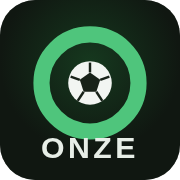
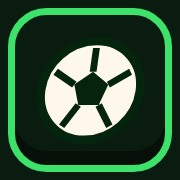
DA S1 · étape 3 (Lots 4-5) — gabarit des panneaux, badges à écussons, accueil cartouche Arcade, icône d'app, écran de fin, célébrations (but 3 intensités, fusion verte/or, bannière de palier)

diff --git a/partie.html b/partie.html
@@ -53,12 +53,18 @@
     }
     html.en-portrait #tourne-ecran { display: flex; }
     html.en-portrait #app { display: none; }
-    #tourne-ecran .rotor { font-size: 3rem; animation: tourne-doux 2.4s ease-in-out infinite; }
+    #tourne-ecran .rotor { animation: tourne-doux 2.4s ease-in-out infinite; }
+    /* le téléphone-cartouche (satellite « Tourne ton téléphone », Lot 4) */
+    .telephone-cartouche {
+      width: 54px; height: 34px; border: 3px solid var(--gazon-electrique); border-radius: 8px;
+      box-shadow: 0 0 16px rgba(61, 226, 107, 0.4); transform: rotate(90deg);
+    }
     @keyframes tourne-doux {
       0%, 55%, 100% { transform: rotate(0deg); }
-      25%, 40% { transform: rotate(90deg); }
+      25%, 40% { transform: rotate(-90deg); }
     }
-    #tourne-ecran h2 { margin: 0; font-size: 1.25rem; color: var(--or-trophee); }
+    #tourne-ecran h2 { margin: 8px 0 0; font-family: var(--police-display); font-weight: 400;
+      font-size: 1.3rem; color: var(--craie); transform: var(--pente); }
     #tourne-ecran p { margin: 0; font-size: 0.85rem; color: var(--craie-sourde); max-width: 300px; line-height: 1.45; }
     #tourne-ecran .promo-pwa {
       margin-top: 10px; padding: 10px 14px; border: 1px solid var(--ligne); border-radius: 12px;
@@ -90,8 +96,8 @@
     .pastille-manche small { display: block; font-size: 0.5rem; color: var(--craie-sourde); }
     .pastille-manche.passee { opacity: 0.25; }
     .pastille-manche.courante {
-      background: var(--surface-1); border: 1px solid var(--gazon-electrique); opacity: 1;
-      box-shadow: 0 0 8px rgba(61, 226, 107, 0.5); font-size: 0.82rem;
+      background: var(--surface-2); border: 1.5px solid var(--or-trophee); opacity: 1;
+      box-shadow: 0 0 12px rgba(242, 193, 78, 0.6); font-size: 0.82rem;
     }
     .haut button {
       background: var(--surface-1); color: var(--craie-claire); border: 1px solid var(--ligne);
@@ -363,10 +369,32 @@
     }
     .galerie .carte-galerie.epingle { border-color: #9CC4EF; box-shadow: 0 0 8px rgba(156, 196, 239, 0.5); }
 
+    /* Le toast : une pilule discrète (vocabulaire d'interaction, Lot 4) */
     .message-flottant {
       position: fixed; bottom: 110px; left: 50%; transform: translateX(-50%);
-      color: var(--alerte-claire); font-size: 0.75rem; z-index: 90; background: #060D08DD;
-      border-radius: 8px; padding: 0 8px; pointer-events: none; text-align: center;
+      color: var(--craie-claire); font-size: 0.75rem; z-index: 90;
+      background: #060D08E8; border: 1px solid var(--ligne);
+      border-radius: var(--r-pilule); padding: 0 12px; pointer-events: none; text-align: center;
+    }
+    /* La bannière en balayage latéral (Lot 5) : couleur = sens —
+       vert fusion · or palier/légendaire. Le layout ne bouge pas. */
+    .banniere-balayage {
+      position: absolute; left: 0; right: 0; top: 64px; z-index: 95; pointer-events: none;
+      padding: 8px 18px; font-weight: 800; font-size: 0.85rem;
+      font-family: var(--police-display); letter-spacing: 0.5px;
+      background: linear-gradient(90deg, rgba(242, 193, 78, 0.20), rgba(242, 193, 78, 0));
+      border-left: 3px solid var(--or-trophee); color: var(--or-trophee);
+      animation: balayage 1.4s ease forwards;
+    }
+    .banniere-balayage.verte {
+      background: linear-gradient(90deg, rgba(61, 226, 107, 0.20), rgba(61, 226, 107, 0));
+      border-left-color: var(--gazon-electrique); color: var(--gazon-electrique);
+    }
+    @keyframes balayage {
+      0% { transform: translateX(-24px); opacity: 0; }
+      12% { transform: none; opacity: 1; }
+      80% { opacity: 1; }
+      100% { opacity: 0; }
     }
 
     /* ---- Volets et panneaux ---- */
@@ -375,11 +403,17 @@
       z-index: 60; display: flex; align-items: center; justify-content: center;
       padding: 14px; overflow-y: auto;
     }
+    /* Le GABARIT COMMUN des panneaux (Lot 4) : même matière, même
+       rayon, même ombre — seule la couleur de bord dit le contexte. */
     .volet .panneau {
-      background: #131b14; border: 1px solid var(--ligne-forte); border-radius: 14px;
+      background: linear-gradient(165deg, #152A19, #0A160D);
+      border: 2px solid var(--ligne-forte); border-radius: var(--r-panneau);
       width: 100%; max-width: 420px; max-height: 92vh; overflow-y: auto;
       padding: 14px; animation: apparait 0.25s ease; font-size: 0.8rem;
+      box-shadow: var(--ombre-panneau);
     }
+    .volet .panneau > strong:first-child { font-family: var(--police-display); font-weight: 400;
+      font-size: 0.95rem; display: inline-block; transform: var(--pente); }
     .volet .panneau .classement { border: none; padding: 0; margin: 0 0 8px; background: none; }
     .volet .fermer-volet {
       width: 100%; margin-top: 10px; background: var(--ligne); color: var(--craie-claire);
@@ -392,7 +426,7 @@
 <body>
   <!-- ===== Écran « tourne ton téléphone » (portrait uniquement) ===== -->
   <div id="tourne-ecran">
-    <div class="rotor">🔄</div>
+    <div class="rotor"><div class="telephone-cartouche"></div></div>
     <h2>Tourne ton téléphone</h2>
     <p>ONZE se joue en paysage — comme un vrai match.<br>
       Si rien ne bouge : désactive le <strong>verrou d'orientation</strong> d'iOS
@@ -1465,14 +1499,20 @@
         if (je.vivant) ONZE_JUICE.jouer("icone"); else ONZE_JUICE.jouer("defaite");
         const volet = document.createElement("div");
         volet.className = "volet";
-        volet.innerHTML = `<div class="panneau" style="text-align:center;max-width:480px">
-          <div style="font-size:1.35rem;font-weight:900;margin-bottom:2px">${je.vivant ? "🏆 CHAMPION !" : "💔 Éliminé"}</div>
-          <div style="color:var(--craie-sourde);font-size:0.78rem;margin-bottom:8px">${place}ᵉ sur 8 · manche ${partie.manche}</div>
+        volet.innerHTML = `<div class="panneau" style="text-align:center;max-width:480px;${je.vivant ? "border-color:var(--or-trophee);background:linear-gradient(165deg,#1F1C10,#0A160D)" : ""}">
+          <div style="font-family:var(--police-display);font-size:1.7rem;transform:var(--pente);margin-bottom:2px;${je.vivant
+            ? "color:var(--or-trophee);text-shadow:0 3px 0 #04240E, 0 0 26px rgba(242,193,78,0.5)"
+            : "color:var(--craie-claire);text-shadow:0 3px 0 #04240E"}">${je.vivant ? "CHAMPIONS !" : "ÉLIMINÉ"}</div>
+          <div style="color:var(--craie-sourde);font-size:0.78rem;margin-bottom:8px">${place}ᵉ sur 8 · manche ${partie.manche}${je.vivant ? "" : " · le club retiendra la leçon"}</div>
           <div style="display:flex;gap:4px;flex-wrap:wrap;justify-content:center;margin-bottom:8px">
             ${partie.terrain.map((j) => `<span class="jeton cout-${j.cout}" style="width:56px;cursor:default">
               ${pastilleHTML(j)}${(j.etoiles || 1) >= 2 ? `<span class="etoiles">${"★".repeat(j.etoiles)}</span>` : ""}<br>${j.nom.replace(/ ★+$/, "")}</span>`).join("")}
           </div>
-          ${heros ? `<div class="coach" style="margin-bottom:4px"><span>🌟 L'homme de ta partie : <strong>${heros.nom}</strong> — ${heros.buts} but${heros.buts > 1 ? "s" : ""}, ${heros.passes} passe${heros.passes > 1 ? "s" : ""} décisive${heros.passes > 1 ? "s" : ""}${heros.arrets ? ", " + heros.arrets + " arrêts" : ""}</span></div>` : ""}
+          ${heros ? `<div style="display:inline-block;border:2.5px solid var(--or-trophee);border-radius:12px;background:var(--fond-carte-or);box-shadow:0 0 22px rgba(242,193,78,0.35);padding:8px 14px;margin-bottom:6px">
+            <div style="font-size:0.6rem;color:var(--craie-sourde);letter-spacing:2px">HOMME DE LA PARTIE 🌟</div>
+            <div style="font-family:var(--police-display);font-size:1.1rem;transform:var(--pente)">${heros.nom.replace(/ ★+$/, "")}</div>
+            <div style="font-size:0.7rem;color:var(--craie-sourde)">${heros.buts} but${heros.buts > 1 ? "s" : ""} · ${heros.passes} passe${heros.passes > 1 ? "s" : ""} décisive${heros.passes > 1 ? "s" : ""}${heros.arrets ? " · " + heros.arrets + " arrêts" : ""}</div>
+          </div>` : ""}
           ${icones.length ? `<div class="coach" style="margin-bottom:4px"><span>🎯 Icônes débloquées : <strong>${icones.join(" · ")}</strong></span></div>` : ""}
           <details style="margin:4px 0"><summary style="cursor:pointer;color:var(--craie-sourde);font-size:0.76rem">🏁 Le classement final</summary>
             <div class="classement" style="margin-top:4px">${ligneClassement()}</div></details>
@@ -2515,7 +2555,17 @@
       // Le son de palier : une famille vient de s'allumer ou de monter
       const clesSynergies = new Set(apercu.synergies.map((sy) => sy.nom + "|" + sy.s));
       if (synergiesConnues) {
-        for (const cle of clesSynergies) if (!synergiesConnues.has(cle)) { ONZE_JUICE.jouer("palier"); break; }
+        for (const cle of clesSynergies) if (!synergiesConnues.has(cle)) {
+          ONZE_JUICE.jouer("palier");
+          // La bannière en balayage (Lot 5) : « FAMILLE — PALIER N »
+          const [nomFam, s] = cle.split("|");
+          const banniere = document.createElement("div");
+          banniere.className = "banniere-balayage";
+          banniere.textContent = `${nomFam.toUpperCase()} — PALIER ${s}`;
+          el("app").appendChild(banniere);
+          setTimeout(() => banniere.remove(), 1500);
+          break;
+        }
       }
       synergiesConnues = clesSynergies;
       const axes = ONZE.adnClub(apercu);
@@ -2775,7 +2825,7 @@
       }
       if (!drag.actif) return;
       e.preventDefault();
-      drag.fantome.style.transform = `translate3d(${e.clientX - 30}px, ${e.clientY - 46}px, 0)`;
+      drag.fantome.style.transform = `translate3d(${e.clientX - 30}px, ${e.clientY - 46}px, 0) rotate(-4deg) scale(1.06)`;
       // cibles + malus prévisualisé (au rythme du rendu)
       if (drag.rafPrevu) return;
       drag.rafPrevu = true;

diff --git a/onze.css b/onze.css
@@ -244,14 +244,18 @@ button.principal:disabled { background: #0C130D; color: #4A5A4C; box-shadow: non
 .masque { display: none !important; }
 
 /* ---- La fusion : un événement mis en scène (décision n°13) ---- */
+/* ★★ = l'éclat VERT · ★★★ = l'or (règle dure : l'or n'arrive qu'à 3★) */
 .fusion-banniere {
   position: fixed; top: 30%; left: 50%; transform: translateX(-50%);
-  background: linear-gradient(135deg, #F2C14E, #C98F1B);
-  color: #1A1405; font-weight: 800; font-size: 1.05rem;
+  background: linear-gradient(135deg, #3DE26B, #1B7A3A);
+  color: #04240E; font-weight: 800; font-size: 1.05rem;
   padding: 16px 22px; border-radius: 14px; text-align: center;
-  box-shadow: 0 0 40px rgba(242, 193, 78, 0.55);
+  box-shadow: 0 0 40px rgba(61, 226, 107, 0.55);
   z-index: 50; pointer-events: none;
   animation: fusionPop 2.6s ease forwards;
+}
+.fusion-banniere.trois-etoiles {
+  background: linear-gradient(135deg, #F2C14E, #C98F1B); color: #1A1405;
 }
 .fusion-banniere small { display: block; font-weight: 600; font-size: 0.78rem; margin-top: 4px; }
 @keyframes fusionPop {
@@ -349,9 +353,17 @@ button.principal:disabled { background: #0C130D; color: #4A5A4C; box-shadow: non
 .axe .barre-axe > div.faible { background: var(--alerte); }
 .axe .valeur-axe { width: 24px; text-align: right; font-variant-numeric: tabular-nums; color: var(--craie-sourde); }
 
-/* ---- Badges : « encore 1 » et familles presque allumées ---- */
-.badge.presque { border: 1px solid var(--or-trophee); }
-.badge.inactif { background: var(--fond-stade); color: var(--craie-sourde); border: 1px dashed var(--ligne-forte); }
+/* ---- Badges de synergies (Lot 4) : écusson ± illuminé + compte ---- */
+.badge.synergie-active, .badge.inactif {
+  display: inline-flex; align-items: center; gap: 5px;
+  background: rgba(6, 13, 8, 0.8); border: 1px solid var(--gazon-electrique);
+  border-radius: var(--r-tuile); padding: 2px 6px 2px 3px;
+}
+.badge .badge-texte { display: inline-flex; flex-direction: column; line-height: 1.15; color: var(--gazon-electrique); }
+.badge .badge-texte small { color: var(--craie-sourde); font-weight: 700; }
+.badge.presque { border-color: var(--or-trophee); }
+.badge.inactif { border: 1px solid var(--ligne); }
+.badge.inactif .badge-texte { color: var(--craie-sourde); }
 
 /* ---- Les trois raretés d'orbes ---- */
 .orbe.gris { background: var(--orbe-gris); box-shadow: 0 0 18px rgba(200, 210, 200, 0.35), inset 0 -8px 14px rgba(0, 0, 0, 0.3); animation: none; }
@@ -415,9 +427,15 @@ button.principal:disabled { background: #0C130D; color: #4A5A4C; box-shadow: non
 .scene-match .cri-but {
   position: absolute; transform: translateX(-50%); z-index: 8; pointer-events: none;
   font-family: var(--police-display); font-weight: 400;
-  font-size: 1.25rem; color: var(--or-trophee); text-shadow: 0 2px 0 #04240E, 0 2px 8px #000;
+  font-size: 1.25rem; color: var(--craie); text-shadow: 0 2px 0 #04240E, 0 2px 8px #000;
   animation: criBut 1.15s ease forwards;
 }
+/* Le BUT à 3 intensités (Lot 5) : même squelette, l'enjeu fait la taille */
+.scene-match .cri-but.niv1 { font-size: 1.05rem; }
+.scene-match .cri-but.niv2 { font-size: 1.45rem; color: var(--gazon-electrique);
+  text-shadow: 0 2px 0 #04240E, 0 0 22px rgba(61, 226, 107, 0.7); }
+.scene-match .cri-but.niv3 { font-size: 1.45rem; color: var(--or-trophee);
+  text-shadow: 0 2px 0 #04240E, 0 0 30px rgba(242, 193, 78, 0.8); }
 @keyframes criBut { 0% { transform: translateX(-50%) scale(0.5) skewX(-8deg); opacity: 0; } 20% { transform: translateX(-50%) scale(1.25) skewX(-8deg); opacity: 1; } 75% { transform: translateX(-50%) scale(1) skewX(-8deg); opacity: 1; } 100% { opacity: 0; } }
 
 /* le bandeau compact du récit (journal en une ligne, extensible 📜) */

diff --git a/index.html b/index.html
@@ -14,14 +14,32 @@
   <link rel="apple-touch-icon" href="icons/icone-180.png">
   <link rel="stylesheet" href="onze.css">
   <style>
-    body { justify-content: center; gap: 8px; }
-    header h1 { font-size: 3.4rem; letter-spacing: 4px; }
+    body { justify-content: center; gap: 8px; background: var(--fond-ecran); }
+    /* Le logo ARCADE (DA S1, Lot 1 · 1b) : le badge de borne — cartouche
+       vert électrique, ONZE penché, O-ballon, traits de vitesse. */
+    .cartouche-logo {
+      position: relative; display: inline-flex; flex-direction: column; align-items: center; gap: 4px;
+      transform: skewX(-8deg) rotate(-2deg);
+      background: linear-gradient(180deg, #14351D, #0A1B10);
+      border: 4px solid var(--gazon-electrique); border-radius: 20px;
+      padding: 14px 30px;
+      box-shadow: 0 0 0 4px var(--nuit-profonde), 0 0 34px rgba(61, 226, 107, 0.45), inset 0 -8px 0 rgba(0, 0, 0, 0.4);
+    }
+    .cartouche-logo .nom-logo {
+      font-family: var(--police-display); font-weight: 400; font-size: 3rem; line-height: 1;
+      color: var(--gazon-electrique); text-shadow: 0 4px 0 #04240E, 0 0 24px rgba(61, 226, 107, 0.6);
+    }
+    .cartouche-logo .filet { display: flex; align-items: center; gap: 7px; }
+    .cartouche-logo .filet i { display: block; width: 34px; height: 3px; background: var(--or-trophee); border-radius: 999px; }
+    header .devise { font-family: var(--police-texte); font-weight: 800; font-size: 0.7rem;
+      letter-spacing: 4px; color: var(--or-trophee); margin-top: 10px; }
+    .trait-vitesse { position: fixed; height: 12px; border-radius: 999px; transform: skewX(-30deg); pointer-events: none; }
     .menu { width: 100%; max-width: 400px; display: flex; flex-direction: column; gap: 8px; }
     .bouton-jouer {
       display: block; text-decoration: none; text-align: center;
-      background: var(--gazon-electrique); color: var(--nuit-profonde);
-      border-radius: 14px; padding: 18px; font-size: 1.2rem; font-weight: 900;
-      box-shadow: 0 4px 18px rgba(61, 226, 107, 0.35);
+      background: var(--gazon-electrique); color: #04240E;
+      border-radius: 14px; padding: 16px; font-size: 1.2rem; font-weight: 800;
+      box-shadow: inset 0 -6px 0 rgba(0, 0, 0, 0.25), 0 0 26px rgba(61, 226, 107, 0.4);
     }
     .reglages { display: flex; gap: 6px; }
     .reglages button {
@@ -41,9 +59,16 @@
   </style>
 </head>
 <body>
+  <div class="trait-vitesse" style="left:-40px; top:22%; width:280px; background:linear-gradient(90deg, rgba(61,226,107,0), #3DE26B); opacity:0.55"></div>
+  <div class="trait-vitesse" style="left:-40px; top:calc(22% + 22px); width:190px; height:8px; background:linear-gradient(90deg, rgba(61,226,107,0), #3DE26B); opacity:0.35"></div>
+  <div class="trait-vitesse" style="right:-40px; top:64%; width:280px; background:linear-gradient(270deg, rgba(242,193,78,0), #F2C14E); opacity:0.45"></div>
+  <div class="trait-vitesse" style="right:-40px; top:calc(64% + 22px); width:180px; height:8px; background:linear-gradient(270deg, rgba(242,193,78,0), #F2C14E); opacity:0.3"></div>
   <header>
-    <h1>ON<span>ZE</span></h1>
-    <p>L'auto-battler du football</p>
+    <div class="cartouche-logo">
+      <span class="nom-logo">ONZE</span>
+      <span class="filet"><i></i><svg width="24" height="24" viewBox="0 0 64 64"><circle cx="32" cy="32" r="29" fill="#FDF8EA" stroke="#04240E" stroke-width="6"></circle><polygon points="32,21 42,28.5 38,40.5 26,40.5 22,28.5" fill="#04240E"></polygon></svg><i></i></span>
+    </div>
+    <p class="devise">HUIT COACHS · UN MERCATO</p>
   </header>
   <div class="menu">
     <a class="bouton-jouer" href="partie.html">🏆 Jouer</a>

diff --git a/match-scene.js b/match-scene.js
@@ -190,7 +190,7 @@ const ONZE_SCENE = (() => {
           if (st.couloirs && n >= 2 && (i === 0 || i === n - 1)) y = i === 0 ? 10 : 90;
           const d = {
             nom: j.nom, num: numero++, camp, gardien: ligneDuJoueur(j) === "GAR",
-            etoiles: j.etoiles || 1,
+            etoiles: j.etoiles || 1, icone: !!j.icone, unique: !!j.unique,
             ecole: j.ecole, archetype: j.archetype,
             baseX: xLigne(camp, ligne), baseY: y,
             x: xLigne(camp, ligne), y, cx: null, cy: null,
@@ -227,6 +227,7 @@ const ONZE_SCENE = (() => {
     const REPLAY_ACTIF = (() => { try { return localStorage.getItem("onze-replay") !== "off"; } catch (e) { return true; } })();
     const tampon = [];
     let replay = null; // { etats, indice, t0 }
+    const butsMarques = { moi: 0, eux: 0 }; // pour doser la célébration (Lot 5)
 
     function dominationDe(phase) {
       let score = 0, poids = 0;
@@ -486,11 +487,19 @@ const ONZE_SCENE = (() => {
           regime = "rendu"; facteurTemps = 1; ballon.suspendu = false;
           if (tireur) tireur.echelle = 1;
           ballon.cx = butCible.x; ballon.cy = butCible.y + (Math.random() * 10 - 5); ballon.vitesse = 18;
+          // La célébration PROPORTIONNELLE à l'enjeu (Lot 5) : ordinaire /
+          // but qui fait basculer la manche / but de légende (Icône, Unique)
+          const menaitPas = butsMarques[camp2] <= butsMarques[adverse(camp2)];
+          butsMarques[camp2]++;
+          const bascule = menaitPas && butsMarques[camp2] >= butsMarques[adverse(camp2)];
+          const legende = tireur && (tireur.icone || tireur.unique);
+          const niv = legende ? 3 : bascule ? 2 : 1;
           setTimeout(() => {
             if (detruit) return;
             tremblementCage = { camp: adverse(camp2), force: 1 };
             ephemere("flash-but", butCible.x, 50, "", 800);
-            ephemere("cri-but", 50, 30, "⚽ BUUUT !", 1300);
+            ephemere("cri-but niv" + niv, 50, 30, niv === 3 ? "LÉGENDE !" : niv === 2 ? "BUUUT !" : "BUT !",
+              niv === 3 ? 2200 : niv === 2 ? 1300 : 900);
             if (tireur) {
               listeDisques.filter((d) => d.camp === camp2 && d !== tireur && !d.gardien)
                 .sort((a, b) => Math.hypot(a.x - tireur.x, a.y - tireur.y) - Math.hypot(b.x - tireur.x, b.y - tireur.y))

diff --git a/match-ui.js b/match-ui.js
@@ -51,7 +51,8 @@ const ONZE_UI = (() => {
       const prochain = paliers ? paliers.find((p) => p > sy.nb) : null;
       const libelle = prochain ? `${sy.nb}/${prochain}` : `${sy.nb}`;
       const presque = prochain && prochain - sy.nb === 1 ? " presque" : "";
-      rendus.push(`<span class="badge${presque}" data-famille="${sy.nom}">${glyphe(sy.nom)} ${sy.nom} ${libelle}${presque ? " ✨" : ""}</span>`);
+      const ecusson = typeof ONZE_ECUSSONS !== "undefined" ? ONZE_ECUSSONS.badge(sy.nom, true, 18) : glyphe(sy.nom);
+      rendus.push(`<span class="badge synergie-active${presque}" data-famille="${sy.nom}">${ecusson} <span class="badge-texte">${sy.nom}<small>${libelle}${presque ? " ✨" : ""}</small></span></span>`);
     }
     // familles pas encore actives mais à UN joueur du premier palier
     const comptes = {};
@@ -64,7 +65,8 @@ const ONZE_UI = (() => {
       if (vus.has(nom) || nom === "Capitaine") continue;
       const paliers = paliersDe(nom, type);
       if (paliers && paliers[0] - nb === 1) {
-        rendus.push(`<span class="badge inactif" data-famille="${nom}">${glyphe(nom)} ${nom} ${nb}/${paliers[0]} ✨</span>`);
+        const ecussonEteint = typeof ONZE_ECUSSONS !== "undefined" ? ONZE_ECUSSONS.badge(nom, false, 18) : glyphe(nom);
+        rendus.push(`<span class="badge inactif" data-famille="${nom}">${ecussonEteint} <span class="badge-texte">${nom}<small>${nb}/${paliers[0]} ✨</small></span></span>`);
       }
     }
     return rendus.join("");

diff --git a/JOURNAL.md b/JOURNAL.md
@@ -172,3 +172,9 @@ Trois lignes par session : **fait / bloqué / prochaine tâche**. C'est ce qui p
 - **Fait :** la rotation logicielle est morte et enterrée — en portrait, **le jeu ne se rend plus du tout** (`#app` masqué, pas seulement recouvert) : l'écran de rotation s'affiche et rien d'autre, avec le message qui manquait — « Si rien ne bouge : désactive le verrou d'orientation d'iOS (Centre de contrôle) » — et le rappel « Ajouter à l'écran d'accueil = plein écran automatique ». Détection ceinture-bretelles : media query CSS `(orientation: portrait)` ET classe posée par JS sur `resize`/`orientationchange` (si l'une des deux dit portrait, on ne rend pas). Le jeu ne vit que dans les viewports paysage — ceux que le test de visibilité couvre déjà sur 5 tailles — et ce test gagne le cas « portrait → écran de rotation et rien d'autre (aucun contrôle n'a de boîte), retour paysage complet ». Suite entière + lint au vert.
 - **Bloqué :** rien. Note : le bloquant venait aussi d'un cache Safari — la rotation logicielle avait déjà été supprimée au correctif précédent ; désormais c'est testé ET le mode n'existe plus du tout.
 - **Prochaine tâche :** la scène « football continu » (décision 26).
+
+## Session 20 — 22 août 2026 : LA DA S1 IMPLÉMENTÉE (identité Arcade + carte Blason)
+
+- **Fait :** la direction artistique validée est dans le jeu, implémentée depuis l'export du canvas versé dans `design/da/` (source de vérité — piste **Arcade** du Lot 1 §1b qui fait foi sur la planche de Tokens restée sur la piste Finale). **Étape 1 — les tokens** : toutes les variables CSS (couleurs, lueurs et ombres nommées, rayons, typos Bowlby One SC penchée −8° + Archivo tnum) en tête d'`onze.css`, branchées dans les 4 pages, le moteur de scène et le manifest ; polices **auto-hébergées** (`fonts/`, 216 Ko — fiable en PWA/hors-ligne) ; garde « aucune valeur de l'ancienne palette en dur » ajoutée à la suite. **Étape 2 — Lot 3** : la carte **Blason** en boutique (gemme de coût, note-écusson, nom penché, 2 stats signatures, écussons, bouton-prix ≥44 px de zone tactile) avec ses états en couches (pulse ★★ verte, ★★★ or, épinglée bleue CALEPIN, Icône à rayons tournants, Unique ✦, grisée — la base ne bouge jamais) ; les **23 écussons SVG** du Lot 2 (mini/badge actif/badge éteint) partout via `ecussons.js` ; jetons terrain/banc en Blason mini ; pions de match en relief (dégradé éclairé, gardien or, étoiles) ; fiche joueur en **affiche de héros** (filigrane géant, pilules, signatures dorées). **Étape 3 — Lots 4 & 5** : gabarit commun des panneaux, badges de synergies à écussons illuminés, manche courante à l'or, toasts en pilule, fantôme de drag incliné, accueil au **logo-cartouche Arcade** + traits de vitesse, icône d'app régénérée (512/192/180), écran de fin CHAMPIONS!/ÉLIMINÉ + carte or de l'homme de la partie, téléphone-cartouche du portrait ; célébrations branchées sur les sons existants : **but à 3 intensités** (BUT!/BUUUT!/LÉGENDE! — bascule et buteur Icône/Unique détectés), fusion ★★ **verte** / ★★★ **or** (règle dure respectée), **bannière de palier en balayage**. Interdits tenus : zéro gameplay touché (aucun fichier moteur de règles modifié), perf p95 16,7 ms (60 fps), lisibilité préservée (rien sous 10 px), suite complète + lint verts à chaque étape.
+- **Bloqué :** rien. Reste des retouches d'écran possibles au playtest (panneau Philosophies et volets secondaires sont au gabarit mais sans re-création pixel par pixel).
+- **Prochaine tâche :** playtest DA sur téléphone (le test d'acceptation du brief : beau, lisible en ¼ s, donne envie) ; puis la scène « football continu » (décision 26).
